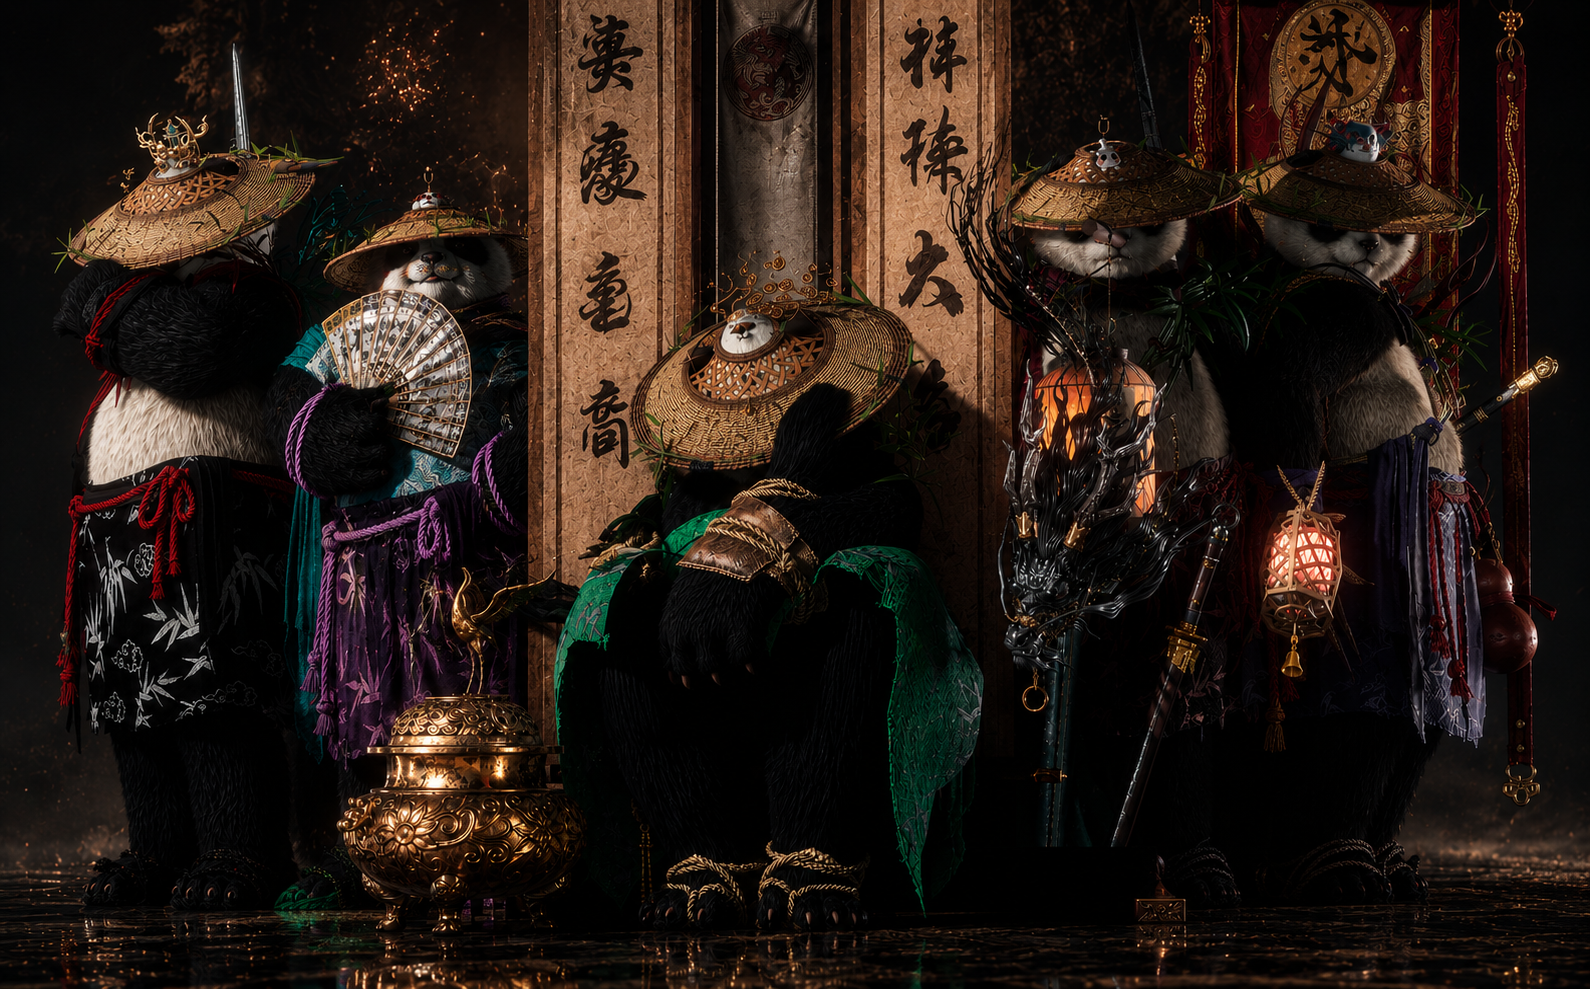
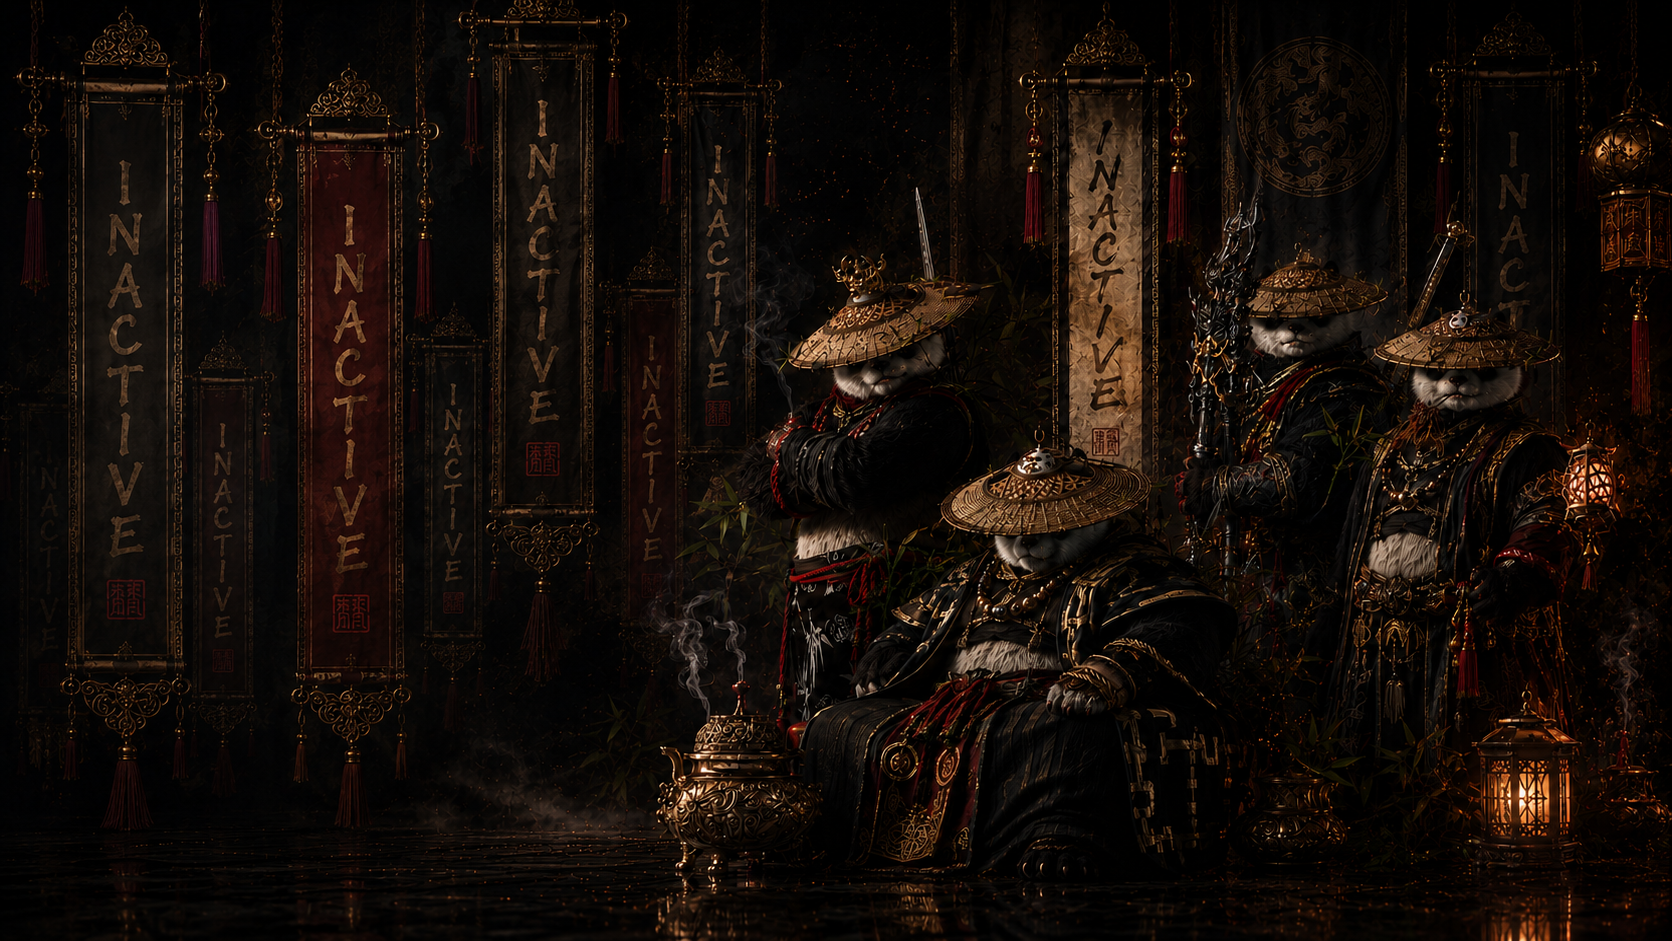
wallpaper change

diff --git a/styles.css b/styles.css
@@ -31,10 +31,9 @@
 
     /* Role colors (kept legible, reskinned to theme) */
     --role-tank:     #d98a3d;
-    --role-dps:      #007acc; /* VS Code blue */
+    --role-dps:      #cf4b3a;
     --role-healer:   #6fb585;
     --role-support:  #d8b24a;
-    --role-enemey:   #cf4b3a; /* legacy DPS red mapped to ENEMEY */
 
     /* Functional */
     --danger:        #c0392b;
@@ -59,9 +58,9 @@ body {
     color: var(--silk);
     min-height: 100vh;
     background:
-        radial-gradient(ellipse 120% 80% at 50% -10%, rgba(201,162,75,0.10), transparent 60%),
-        radial-gradient(ellipse 90% 70% at 80% 110%, rgba(182,64,46,0.10), transparent 55%),
-        linear-gradient(160deg, rgba(13,11,9,0.86) 0%, rgba(21,17,13,0.82) 45%, rgba(11,10,8,0.90) 100%),
+        radial-gradient(ellipse 120% 80% at 50% -10%, rgba(201,162,75,0.06), transparent 60%),
+        radial-gradient(ellipse 90% 70% at 80% 110%, rgba(182,64,46,0.06), transparent 55%),
+        linear-gradient(160deg, rgba(13,11,9,0.60) 0%, rgba(21,17,13,0.50) 45%, rgba(11,10,8,0.70) 100%),
         url('images/wallpaper.png') no-repeat center center fixed;
     background-size: cover, cover, cover, cover;
     background-attachment: fixed;
@@ -80,7 +79,7 @@ body::before {
     pointer-events: none;
     z-index: 9998;
     mix-blend-mode: overlay;
-    opacity: 0.6;
+    opacity: 0.25;
 }
 body::after {
     content: '';
@@ -88,7 +87,7 @@ body::after {
     inset: 0;
     pointer-events: none;
     z-index: 1;
-    box-shadow: inset 0 0 220px 40px rgba(0,0,0,0.65);
+    box-shadow: inset 0 0 220px 40px rgba(0,0,0,0.35);
 }
 
 ::selection { background: rgba(201,162,75,0.35); color: #fff; }
@@ -184,9 +183,6 @@ header img[alt="WWM Logo"] {
     transition: color .2s, border-color .2s;
 }
 .mightylabs-link:hover { color: var(--gold-bright); border-color: var(--gold); }
-
-/* Inline map credit aligned to the right of the map header */
-.map-credit { margin-left: auto; color: var(--silk-dim); font-size: 0.95rem; display: inline-flex; align-items: center; gap: 6px; }
 
 /* ----- NAVIGATION : engraved tablet buttons ----- */
 .header-nav {
@@ -621,11 +617,9 @@ header img[alt="WWM Logo"] {
     box-shadow: inset 0 1px 0 rgba(255,255,255,0.25);
 }
 .role-badge.Tank,   .role-badge-small.role-Tank   { background: var(--role-tank); }
-.role-badge.DPS,    .role-badge-small.role-DPS     { background: var(--role-dps); color: #000; }
+.role-badge.DPS,    .role-badge-small.role-DPS     { background: var(--role-dps); color:#fff; }
 .role-badge.Healer, .role-badge-small.role-Healer  { background: var(--role-healer); }
 .role-badge.Support,.role-badge-small.role-Support { background: var(--role-support); }
-/* New ENEMEY role uses previous DPS red and black text for readability */
-.role-badge.ENEMEY, .role-badge-small.role-ENEMEY { background: var(--role-enemey); color: #000; }
 
 .no-players {
     text-align: center;
@@ -737,7 +731,6 @@ header img[alt="WWM Logo"] {
 .member-marker.role-DPS::after    { background: var(--role-dps); }
 .member-marker.role-Healer::after { background: var(--role-healer); }
 .member-marker.role-Support::after{ background: var(--role-support); }
-.member-marker.role-ENEMEY::after { background: var(--role-enemey); }
 
 /* Role radius ring (toggled via .map-area.show-role-radius) */
 .role-radius { display: none; }
@@ -759,11 +752,9 @@ header img[alt="WWM Logo"] {
 }
 /* member role colors */
 .map-area.show-role-radius .member-marker.role-Tank .role-radius   { background: rgba(217,138,61,0.34); box-shadow: inset 0 0 0 2px rgba(217,138,61,0.8); }
-.map-area.show-role-radius .member-marker.role-DPS .role-radius    { background: rgba(0,122,204,0.34);  box-shadow: inset 0 0 0 2px rgba(0,122,204,0.8); }
+.map-area.show-role-radius .member-marker.role-DPS .role-radius    { background: rgba(207,75,58,0.34);  box-shadow: inset 0 0 0 2px rgba(207,75,58,0.8); }
 .map-area.show-role-radius .member-marker.role-Healer .role-radius { background: rgba(111,181,133,0.34);box-shadow: inset 0 0 0 2px rgba(111,181,133,0.85); }
 .map-area.show-role-radius .member-marker.role-Support .role-radius{ background: rgba(216,178,74,0.34); box-shadow: inset 0 0 0 2px rgba(216,178,74,0.85); }
-/* ENEMEY radius uses legacy DPS red */
-.map-area.show-role-radius .member-marker.role-ENEMEY .role-radius { background: rgba(207,75,58,0.34); box-shadow: inset 0 0 0 2px rgba(207,75,58,0.8); }
 /* objective role-image markers */
 .map-area.show-role-radius .objective-marker.objective-tank .role-radius   { background: rgba(217,138,61,0.34);  box-shadow: inset 0 0 0 2px rgba(217,138,61,0.8); }
 .map-area.show-role-radius .objective-marker.objective-dps .role-radius    { background: rgba(207,75,58,0.34);   box-shadow: inset 0 0 0 2px rgba(207,75,58,0.8); }
@@ -991,7 +982,6 @@ header img[alt="WWM Logo"] {
 .role-dot.role-DPS { background: var(--role-dps); }
 .role-dot.role-Healer { background: var(--role-healer); }
 .role-dot.role-Support { background: var(--role-support); }
-.role-dot.role-ENEMEY { background: var(--role-enemey); }
 
 /* =====================================================================
    BOTTOM TOOLBAR — armoury rack